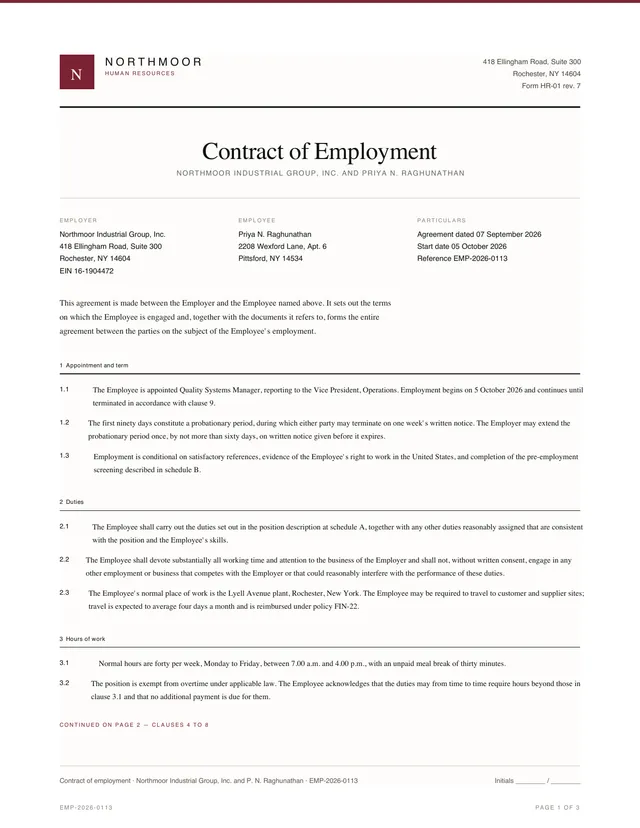
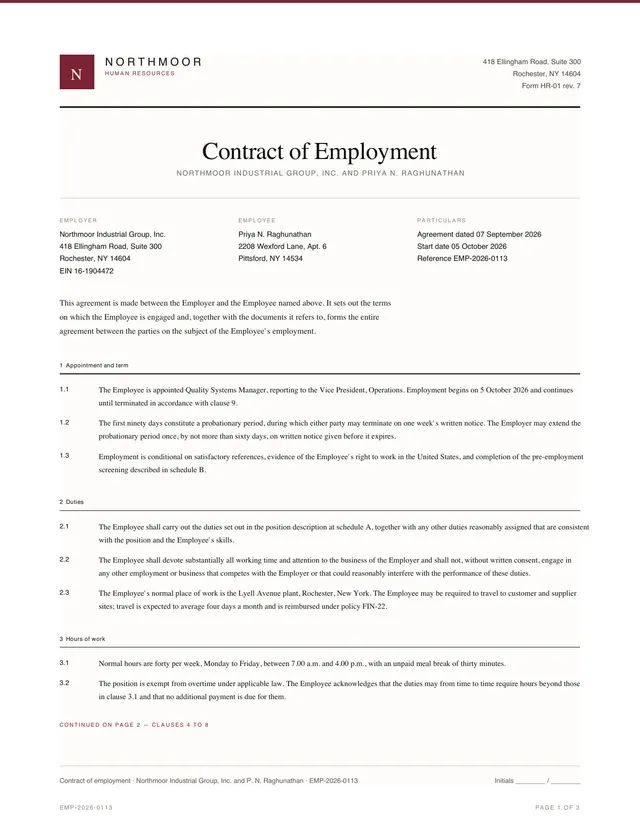
Northmoor: flex-shrink guards on .mark and .cln (the design's flex:none)
The design declares flex:none on both; the port dropped it (outside
the subset) and the omission went unnoticed while broken intrinsic
measurement did the shrinking. With measurement honest (#82, #83) the
guards are insurance, not load-bearing: across all thirty templates
they change nothing but sub-visible float-path rounding (0.01pt Td
wiggles; zero pixels at 100dpi), and termination-letter — which the
guards overflowed over the OLD measurement — stays one page. The
design's other flex:none classes (.page/.label) are prototype chrome
and are not ported.

Docs images regenerated (shared-css input hash).

Claude-Session: https://claude.ai/code/session_019eLgo72VYmQp3kNz9PZDHs

Changed region(s): [[0.125, 0.6341, 0.9062, 0.7548], [0.125, 0.4529, 0.9062, 0.5737], [0.125, 0.8152, 0.9062, 0.8454]]

diff --git a/templates/northmoor-shared.css b/templates/northmoor-shared.css
@@ -36,6 +36,7 @@ body {
 .mark {
   width: 33pt;
   height: 33pt;
+  flex-shrink: 0;        /* the design's flex:none */
   background-color: #7B2233;
   color: #FFFFFF;
   font-family: Georgia, 'Times New Roman', serif;
@@ -299,6 +300,7 @@ h1.sh, h2.sh, h3.sh, .sh {
 }
 .cln {
   width: 27pt;           /* 36px fixed column */
+  flex-shrink: 0;        /* the design's flex:none */
   font-family: Helvetica, Arial, sans-serif;
   font-weight: 700;
   font-size: 6.375pt;    /* 8.5px */
